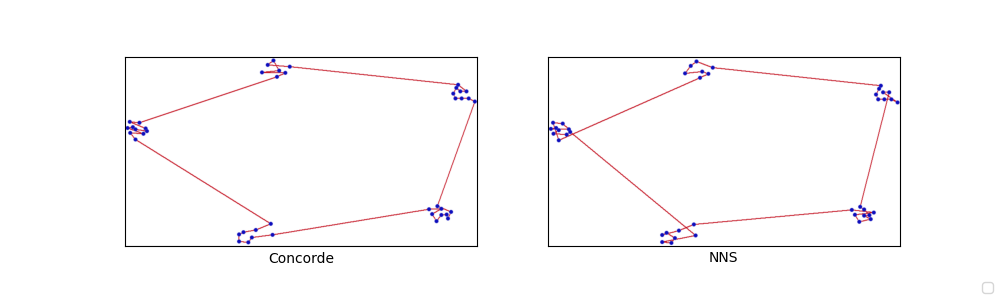
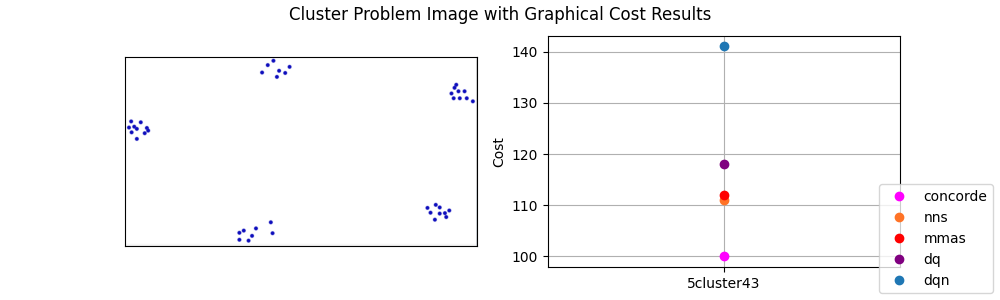
Demo ready

diff --git a/main.py b/main.py
@@ -127,6 +127,10 @@ if __name__ == "__main__":
             print(f"Route: {route}")
             print(f"Time to Solve: {total_time}")
             print("-----------------------")
+            # For demo purposes only; Not needed after 4/16/2025
+            from time import sleep
+            sleep(5)
+            # Demo code end
             if args.mlflow_project:
                 solver.best_cost = cost
                 solver.best_route = route

diff --git a/final_report/plot_results.py b/final_report/plot_results.py
@@ -266,4 +266,4 @@ if __name__ == "__main__":
     plot_tetrahedral()
     plot_asymmetrical_small_medium()
     plot_asymmetrical_large()
-    spiral_solutions()
+    # spiral_solutions()
